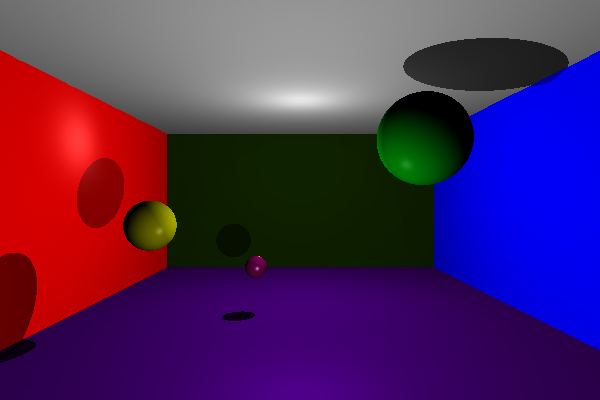
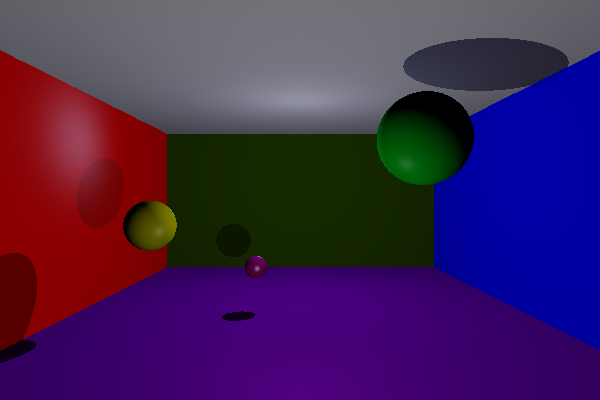
Add primitive tone mapping
Also move colours to [0,1] range and remove unnecessary vector normalizations

diff --git a/src/utility.cpp b/src/utility.cpp
@@ -9,31 +9,38 @@ PPM transpose(PPM image, int n, int m){
 /*
  * The default colour is gray.
  */
-Colour::Colour() : red{ 100 }, green{ 100 }, blue{ 100 } {}
+Colour::Colour() : red{ 0.4f }, green{ 0.4f }, blue{ 0.4f } {}
 
-Colour::Colour(int r, int g, int b) : red{ r }, green{ g }, blue{ b } {}
+Colour::Colour(float r, float g, float b) : red{ r }, green{ g }, blue{ b } {}
 
 Colour Colour::operator+(Colour otherColour) {
-	return Colour(clamp(this->red + otherColour.red)
-		, clamp(this->green + otherColour.green)
-		, clamp(this->blue + otherColour.blue));
+	return Colour(this->red + otherColour.red
+		, this->green + otherColour.green
+		, this->blue + otherColour.blue);
 }
 Colour Colour::operator-(Colour otherColour) {
-	return Colour(clamp(this->red - otherColour.red)
-				, clamp(this->green - otherColour.green)
-				, clamp(this->blue - otherColour.blue));
+	return Colour(this->red - otherColour.red
+				, this->green - otherColour.green
+				, this->blue - otherColour.blue);
 }
 
-int clamp(float c) {
-	return static_cast<int>(std::max(0.0f, std::min(255.0f, c)));
-}
+//int clamp(float c) {
+//	return static_cast<int>(std::max(0.0f, std::min(255.0f, c)));
+//}
 
 Colour Colour::operator*(float lightIntensity) {
-	return Colour(clamp(red * lightIntensity), clamp(green * lightIntensity), clamp(blue * lightIntensity));
+	return Colour(red * lightIntensity, green * lightIntensity, blue * lightIntensity);
 }
 
 Colour Colour::operator*(ColourCoefficients colourCoefficients) {
-	return Colour(clamp(colourCoefficients.red * this->red)
-		, clamp(colourCoefficients.green * this->green)
-		, clamp(colourCoefficients.blue * this->blue));
+	return Colour(colourCoefficients.red * this->red
+		, colourCoefficients.green * this->green
+		, colourCoefficients.blue * this->blue);
+}
+
+Colour reinhardTonemap(Colour colour) {
+	float red = colour.red / (colour.red + 1);
+	float green = colour.green / (colour.green + 1);
+	float blue = colour.blue / (colour.blue + 1);
+	return Colour(red, green, blue);
 }

diff --git a/src/smoke_and_mirrors.cpp b/src/smoke_and_mirrors.cpp
@@ -71,8 +71,8 @@ int main() {
 
 	//Lights
 	//DirectionalLight directionalLight = DirectionalLight({1, 1, 1}, Vector3(10, -1, 0));
-	PointLight ceilingLight = PointLight({255, 255, 255}, 0.8f, Vector3(0, 3, -20));
-	PointLight floorLight = PointLight({255, 255, 255}, 0.6f, Vector3(0, -3, -10));
+	PointLight ceilingLight = PointLight({1.0f, 1.0f, 1.5f}, 1.2f, Vector3(0, 3, -20));
+	PointLight floorLight = PointLight({1.0f, 1.0f, 1.0f}, 0.8f, Vector3(0, -3, -10));
 
 
 	PointLight* PointLights[] = { &ceilingLight, &floorLight };
@@ -90,12 +90,19 @@ int main() {
 			if (tracedPath.firstIntersection.intersected) {
 				illuminatedColour = shade(tracedPath, ray, PointLights, numberOfLights, objects, numberOfObjects);
 			}
+
+			Colour tonemapped = reinhardTonemap(illuminatedColour);
+
+			//std::cout << "Original: " <<std::to_string(illuminatedColour.red) << "\n";
+			//std::cout << "Tonemapped: " << std::to_string(tonemapped.red) << "\n";
+
 			// Convert to pixel coordinates
-			image[y][x].red = illuminatedColour.red;
-			image[y][x].green = illuminatedColour.green;
-			image[y][x].blue = illuminatedColour.blue;
+			image[y][x].red = 255 * tonemapped.red;
+			image[y][x].green = 255 * tonemapped.green;
+			image[y][x].blue = 255 * tonemapped.blue;
 		}
 	}
+
 	auto renderEnd = std::chrono::system_clock::now();
 	std::cout << "Rendering time is: " << std::chrono::duration_cast<std::chrono::milliseconds>(renderEnd - mainBegin).count() << "ms" << std::endl;
 	stbi_write_png("../../../outputImage.png", horizontalResolution, verticalResolution, 3, image, horizontalResolution * sizeof(PPM));

diff --git a/src/math/geometry.cpp b/src/math/geometry.cpp
@@ -12,7 +12,7 @@ Vector3 Ray::pointOnRay(float t) {
 
 Plane::Plane() : normal{ Vector3(0, 0, 1) }, point{ Vector3(0, 1, 1) }, diffuseReflectionCoefficients({ 0.5, 0.5, 0.5}) {}
 Plane::Plane(Vector3 normal, Vector3 point, ColourCoefficients diffuseCoefficients, ColourCoefficients specularCoefficients)
-	: normal{ normal }, point{ point }, diffuseReflectionCoefficients(diffuseCoefficients), specularReflectionCoefficients{specularCoefficients} {}
+	: normal{ normalise(normal) }, point{ point }, diffuseReflectionCoefficients(diffuseCoefficients), specularReflectionCoefficients{specularCoefficients} {}
 
 ColourCoefficients Plane::getDiffuseReflectance() {
 	return diffuseReflectionCoefficients;
@@ -39,5 +39,5 @@ rayIntersection Plane::rayHit(Ray ray) {
 }
 
 Vector3 Plane::surfaceNormal(Vector3 pointOnSurface) {
-	return normalise(normal);
+	return normal;
 }

diff --git a/src/shade.cpp b/src/shade.cpp
@@ -16,7 +16,7 @@ Colour shade(Path path, Ray ray, PointLight** lights, size_t numberOfLights, Sur
 			Vector3 halfPointVector = rayOfLightDirection + (-ray.direction);
 			Vector3 normalisedHalfPointVector = halfPointVector / (halfPointVector.length());
 			float lambertianReflectanceCoefficient = std::max(0.0f, dot(normal, normalisedRayOfLightDirection));
-			float blinnPhongShading = std::pow(std::max(0.0f, dot(normal, normalisedHalfPointVector)),100);
+			float blinnPhongShading = std::pow(std::max(0.0f, dot(normal, normalisedHalfPointVector)),50);
 			illuminatedColour = illuminatedColour + ((lights[i]->colour * surfaceDiffuseReflectance * lights[i]->intensity) * lambertianReflectanceCoefficient
 														+ (lights[i]->colour * surfaceSpecularReflectance * lights[i]->intensity) * blinnPhongShading);
 		}

diff --git a/src/utility.h b/src/utility.h
@@ -21,9 +21,9 @@ struct ColourCoefficients {
  */
 class Colour {
 public:
-	int red, green, blue;
+	float red, green, blue;
 	Colour();
-	Colour(int r, int g, int b);
+	Colour(float r, float g, float b);
 
 	Colour operator+(Colour otherColour);
 	Colour operator-(Colour otherColour);
@@ -31,4 +31,7 @@ public:
 	Colour operator*(ColourCoefficients colourCoefficients);
 };
 
-int clamp(float c);
+//int clamp(float c);
+
+//TODO Should be improved using the white point
+Colour reinhardTonemap(Colour colour);

diff --git a/src/math/sphere.cpp b/src/math/sphere.cpp
@@ -24,6 +24,6 @@ rayIntersection Sphere::rayHit(Ray ray) {
 }
 
 Vector3 Sphere::surfaceNormal(Vector3 pointOnSurface) {
-	Vector3 normal = normalise((pointOnSurface - centre));
+	Vector3 normal = (pointOnSurface - centre)/radius;
 	return normal;
 }
